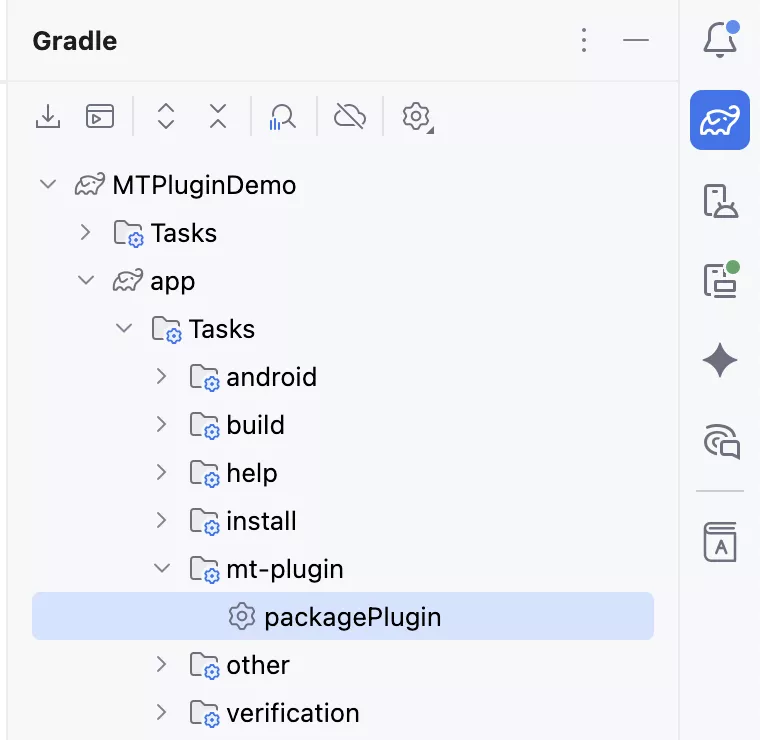
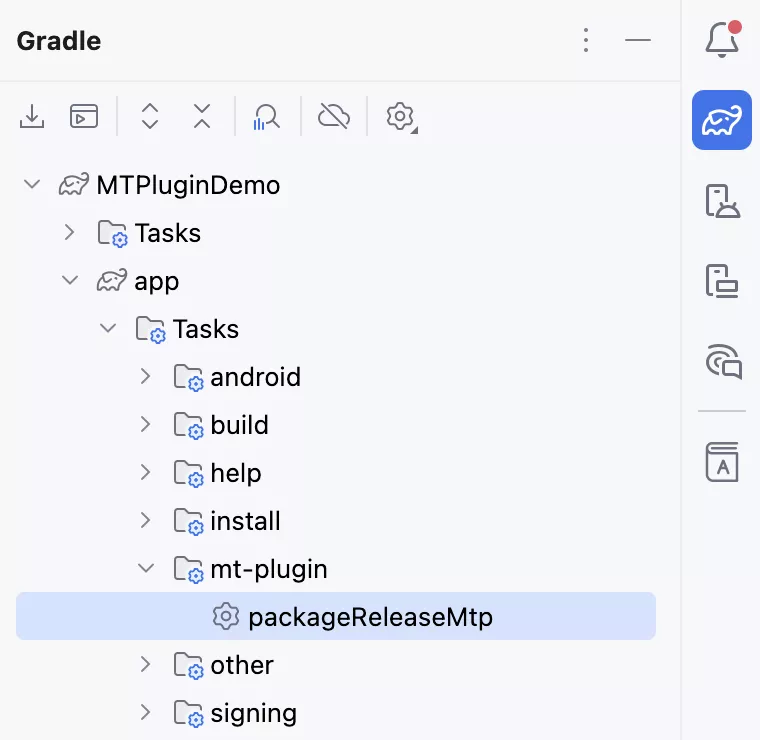
gradle插件升级到alpha3

diff --git a/README.MD b/README.MD
@@ -2,9 +2,13 @@
 
 当前插件 SDK 还在测试阶段，并非稳定版，后续仍会对 API 进行优化与调整，具体请查看下面的更新记录。
 
+欢迎加入 MT 插件开发 QQ 交流群：422326626
+
+<a target="_blank" href="https://qm.qq.com/cgi-bin/qm/qr?k=1YJW16amVeB2cxKigvz3PvKFwtWGtsGH&jump_from=webapi&authKey=JkV7Vu7fjcu39wYmgD3dMfXqW7l2tCEE1BLxSPK1NWr9x1WIRHyzQBq5kW8Gjcea"><img border="0" src="https://pub.idqqimg.com/wpa/images/group.png" alt="MT插件V3交流群" title="MT插件V3交流群"></a>
+
 ## V3 版本功能亮点
 
-v2 版本的插件仅提供了翻译接口和简易的设置界面功能，在 v3 版本中我们进行了以下更新：
+v2 版本的插件仅提供了翻译接口和简易的设置界面功能，在 v3 版本中我们进行了以下升级：
 
 ### 一、使用 AGP 构建
 
@@ -48,6 +52,16 @@ v3 版本插件新增 dex 打包模式，可将 AGP 编译生成的 classes.dex 
 - `app/src/main/java/bin/mt/plugin/demo/preference/ExampleMain.java`
 
 ## 更新记录
+
+### gradle 插件 alpha3
+
+对应 MT 管理器版本号需大于 **25101900**
+
+- Dex 打包模式支持多 dex 文件
+- 重构了 mtp 的打包与推送逻辑，增强与 AGP 的兼容性
+- 升级内置依赖 `plugin-pusher` 的版本到 `alpha2`
+- 打包插件的 gradle 任务 `packagePlugin` 重命名为 `packageReleaseMtp`
+- 通过 Android Studio 运行并推送到设备上安装的 mtp 文件，会被标记为 testOnly，无法二次安装，若要分享 mtp 文件给他人使用，请运行 `packageReleaseMtp` 任务
 
 ### gradle 插件 alpha2
 
@@ -110,7 +124,7 @@ v3 版本插件新增 dex 打包模式，可将 AGP 编译生成的 classes.dex 
 
 在这之前请安装正确版本的 MT 管理器
 
-### 通过 Android Studio（推荐）
+### 通过 Android Studio
 
 #### 一、自动打包插件并推送到设备上安装
 
@@ -119,12 +133,14 @@ v3 版本插件新增 dex 打包模式，可将 AGP 编译生成的 classes.dex 
 2. 等待 Gradle 同步完成后直接运行 app 模块，将会有一个名为 `MT Plugin Plusher` 的应用程序被安装到您的设备上并自动启动
 3. `MT Plugin Plusher` 启动后将会打开 MT 管理器的插件安装界面，点击安装即可
 
+> 该方式仅供自己测试使用，生成的 mtp 文件无法复制到其它设备安装！
+
 <img src="./img/install_mtp.webp" alt="install" width="270">
 
 #### 二、仅打包插件
 
 1. 打开 Gradle 面板（一般在右上角的侧栏里）
-2. 运行 `app/Tasks/mt-plugin/packagePlugin` 任务
+2. 运行 `app/Tasks/mt-plugin/packageReleaseMtp` 任务
 3. 任务运行成功后可以在 `app/build/outputs/mt-plugin` 目录找到打包好的 mtp 插件安装包
 
 <p>
@@ -134,7 +150,7 @@ v3 版本插件新增 dex 打包模式，可将 AGP 编译生成的 classes.dex 
 
 ### 通过命令行
 
-1. 在项目根目录执行 `./gradlew app:packagePlugin`
+1. 在项目根目录执行 `./gradlew app:packageReleaseMtp`
 2. 命令执行成功后可以在 `app/build/outputs/mt-plugin` 目录找到打包好的 mtp 插件安装包
 
 ## 如何测试插件功能
